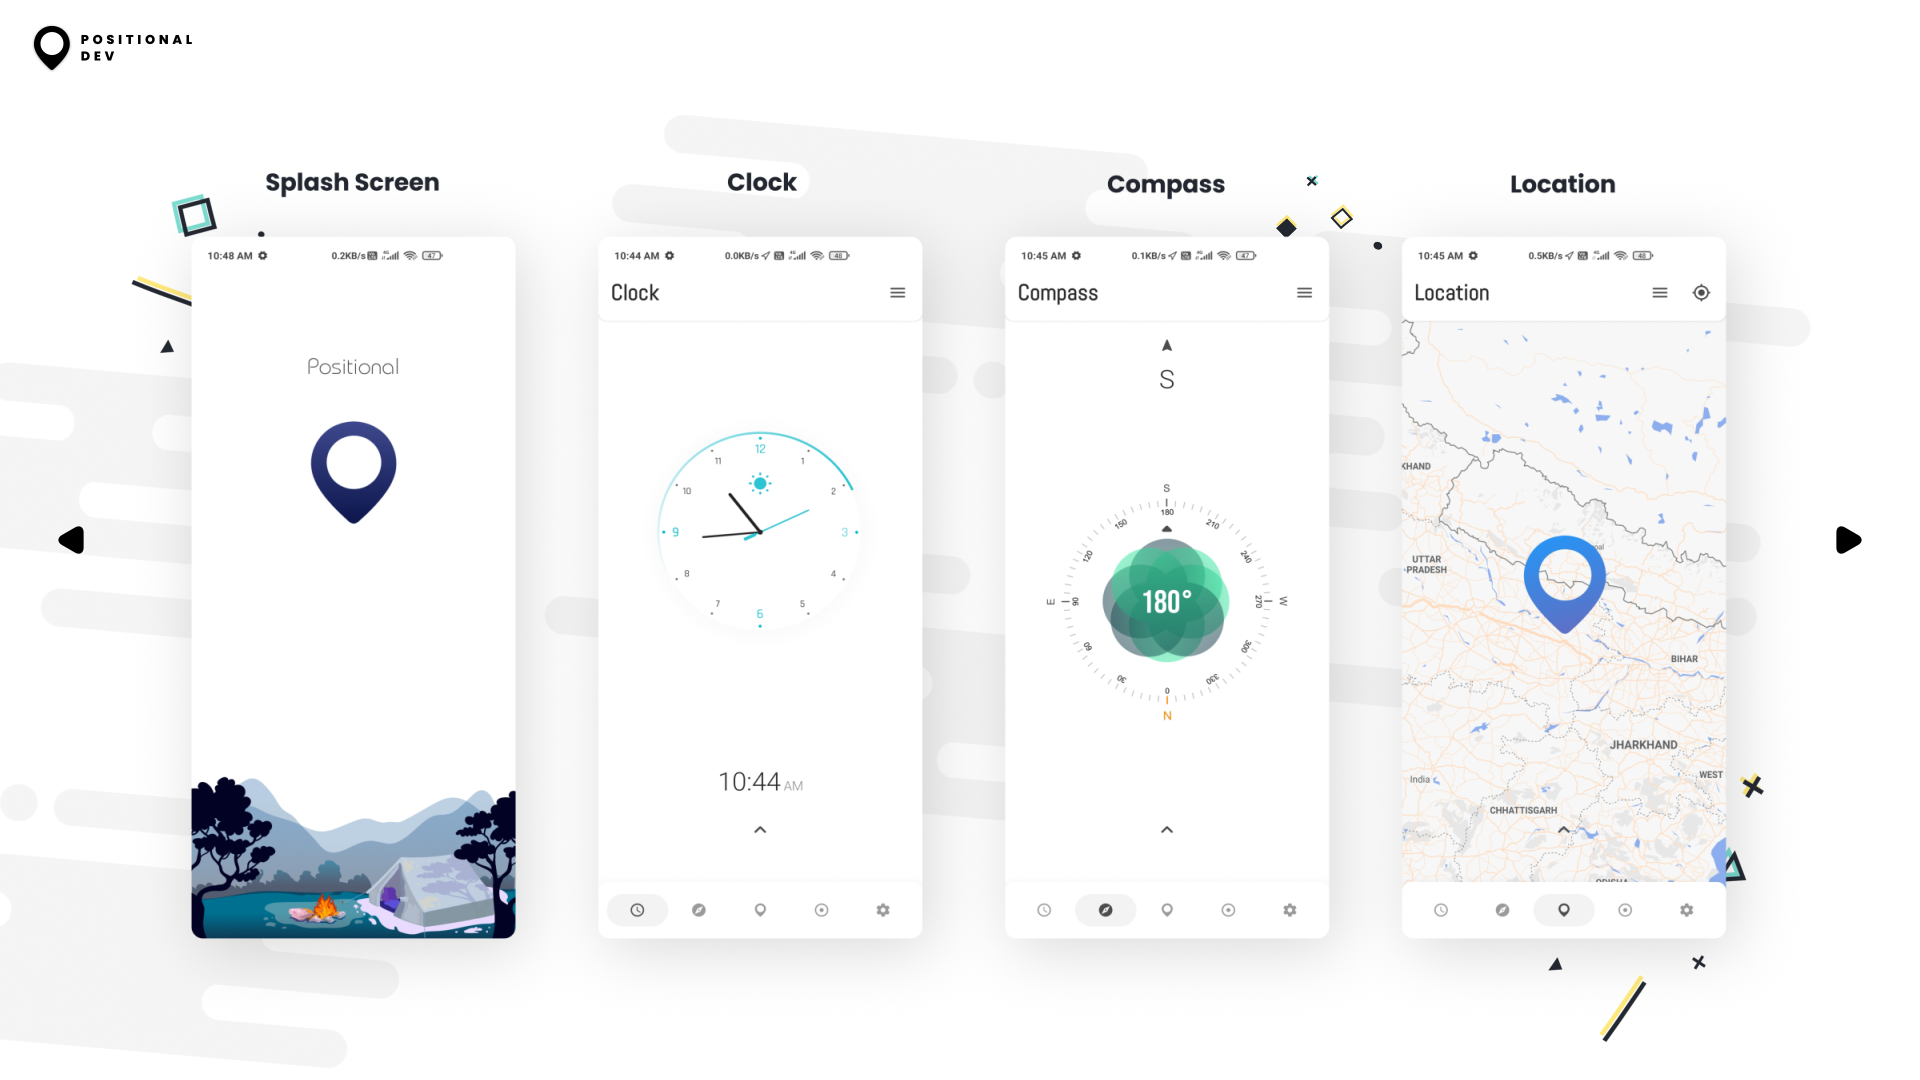
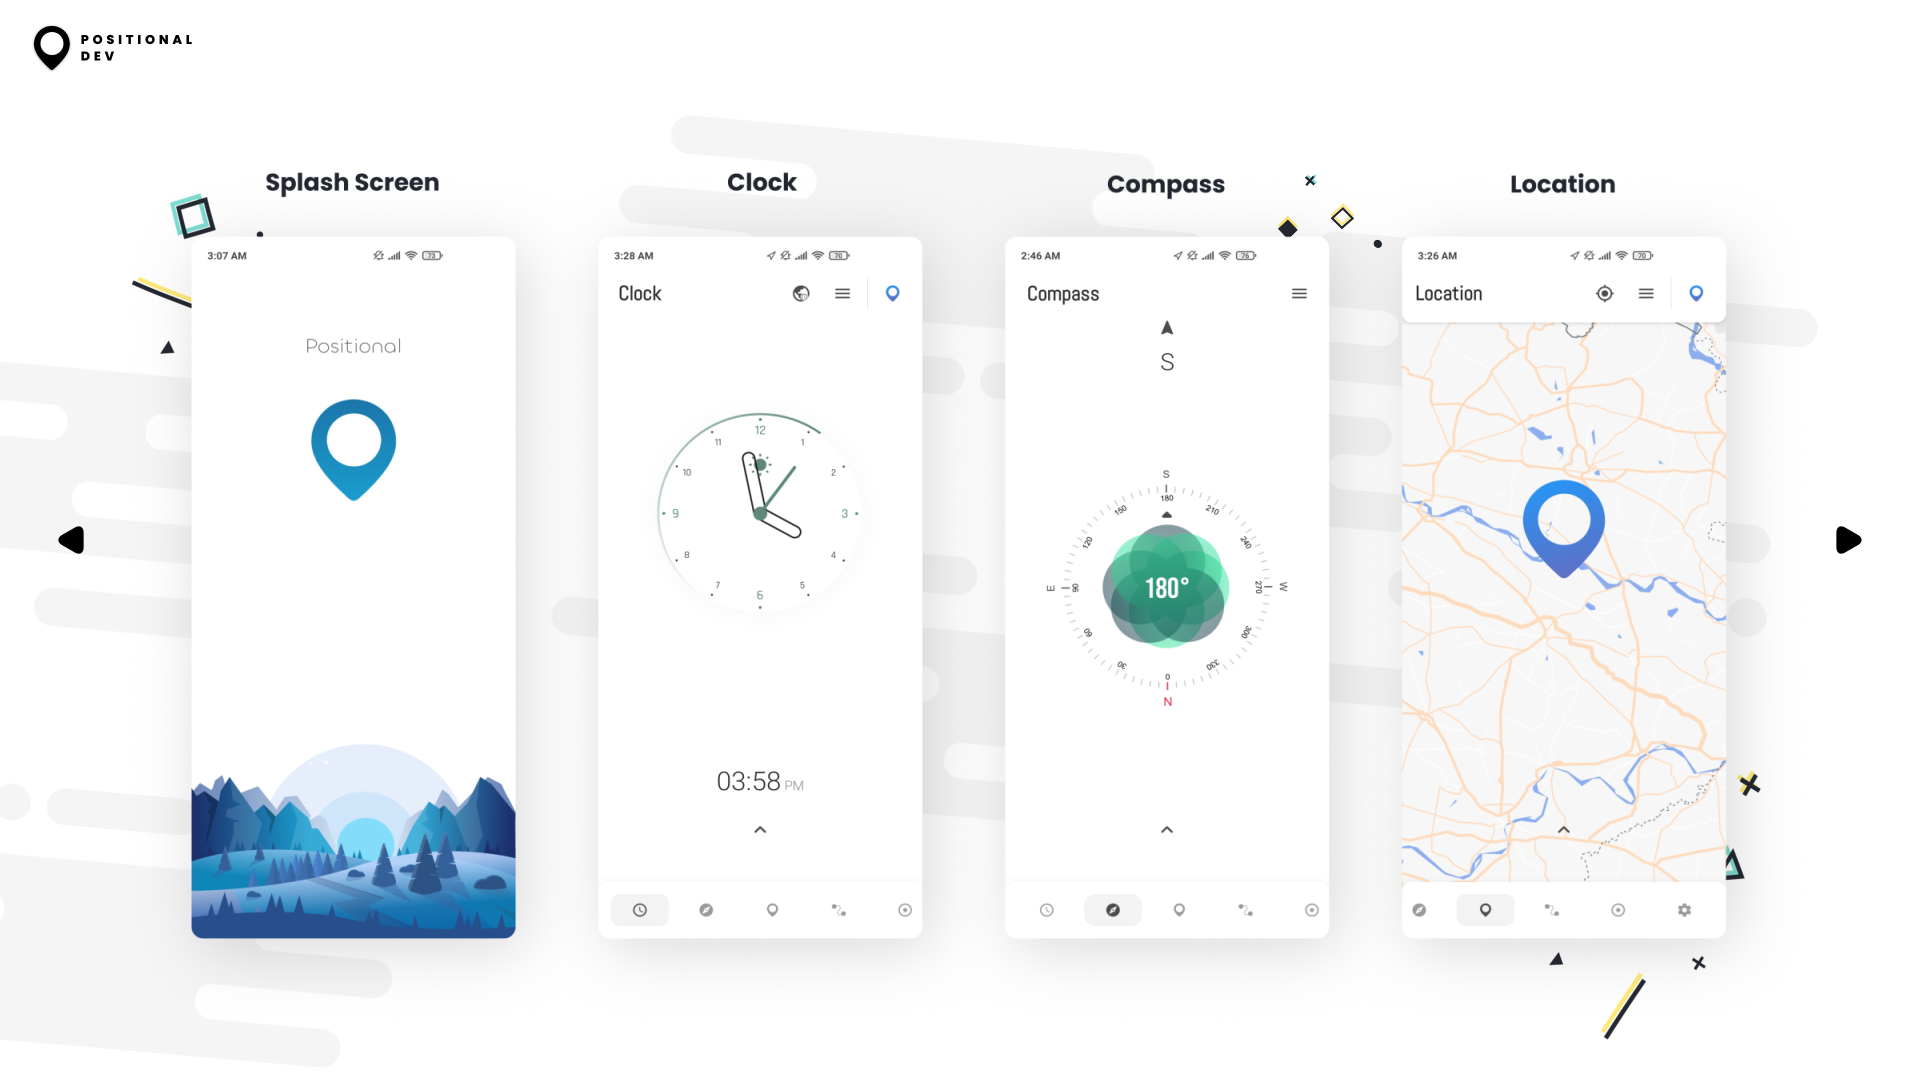
Build125
- Fixed a strange bug that caused crashes
  - Code cleanup

diff --git a/app/src/main/java/app/simple/positional/dialogs/trail/AddTrail.kt b/app/src/main/java/app/simple/positional/dialogs/trail/AddTrail.kt
@@ -50,16 +50,22 @@ class AddTrail : CustomDialogFragment() {
             list.addAll(it)
         })
 
-        nameInputEditText.doOnTextChanged { text, _, _, count ->
+        nameInputEditText.doOnTextChanged { text, _, _, _ ->
             kotlin.runCatching {
-                for (i in list) {
-                    if (i.trailName.lowercase() == text.toString().lowercase() || text.toString().lowercase() == "%%_trails" || count.isZero()) {
-                        println("Called")
+                if (list.isEmpty()) {
+                    if (text.toString().lowercase() == "%%_trails" || text?.length!!.isZero()) {
                         save.gone()
-                        break
                     } else {
-
                         save.visible(true)
+                    }
+                } else {
+                    for (i in list) {
+                        if (i.trailName.lowercase() == text.toString().lowercase() || text.toString().lowercase() == "%%_trails" || text?.length!!.isZero()) {
+                            save.gone()
+                            break
+                        } else {
+                            save.visible(true)
+                        }
                     }
                 }
             }

diff --git a/app/src/main/java/app/simple/positional/dialogs/gps/PinCustomization.kt b/app/src/main/java/app/simple/positional/dialogs/gps/PinCustomization.kt
@@ -13,7 +13,6 @@ import app.simple.positional.adapters.maps.PinSkinAdapter
 import app.simple.positional.decorations.ripple.DynamicRippleImageButton
 import app.simple.positional.decorations.views.CustomBottomSheetDialogFragment
 import app.simple.positional.preferences.GPSPreferences
-import app.simple.positional.preferences.MainPreferences
 
 class PinCustomization : CustomBottomSheetDialogFragment() {
 
@@ -129,13 +128,8 @@ class PinCustomization : CustomBottomSheetDialogFragment() {
         opacity.clearAnimation()
         size.clearAnimation()
         if (!requireActivity().isDestroyed) {
-            if (MainPreferences.getMapPanelType()) {
-                OSMMenu.newInstance()
-                        .show(parentFragmentManager, "gps_menu")
-            } else {
-                GPSMenu.newInstance()
-                        .show(parentFragmentManager, "gps_menu")
-            }
+            GPSMenu.newInstance()
+                .show(parentFragmentManager, "gps_menu")
         }
     }
 

diff --git a/app/src/main/java/app/simple/positional/viewmodels/viewmodel/BottomBarViewModel.kt b/app/src/main/java/app/simple/positional/viewmodels/viewmodel/BottomBarViewModel.kt
@@ -27,7 +27,7 @@ class BottomBarViewModel(application: Application) : AndroidViewModel(applicatio
                     BottomBarModel(R.drawable.ic_clock, "clock", context.getString(R.string.clock)),
                     BottomBarModel(R.drawable.ic_compass, "compass", context.getString(R.string.compass)),
                     BottomBarModel(locationsPins[getPinSkin()], "location", context.getString(R.string.gps_location)),
-                    BottomBarModel(R.drawable.ic_trail, "trail", context.getString(R.string.trail)),
+                    BottomBarModel(R.drawable.ic_trail_line, "trail", context.getString(R.string.trail)),
                     BottomBarModel(R.drawable.ic_level, "level", context.getString(R.string.level)),
                     // BottomBarModel(R.drawable.ic_settings, "settings", context.getString(R.string.settings))
             )

diff --git a/app/src/main/java/app/simple/positional/preferences/TrailPreferences.kt b/app/src/main/java/app/simple/positional/preferences/TrailPreferences.kt
@@ -110,7 +110,7 @@ object TrailPreferences {
     }
 
     fun arePolylinesWrapped(): Boolean {
-        return getSharedPreferences().getBoolean(wrapped, true)
+        return getSharedPreferences().getBoolean(wrapped, false)
     }
 
     //--------------------------------------------------------------------------------------------------//
@@ -140,7 +140,7 @@ object TrailPreferences {
     }
 
     fun getMapAutoCenter(): Boolean {
-        return getSharedPreferences().getBoolean(mapAutoCenter, true)
+        return getSharedPreferences().getBoolean(mapAutoCenter, false)
     }
 
     //--------------------------------------------------------------------------------------------------//

diff --git a/app/src/main/java/app/simple/positional/ui/panels/Trail.kt b/app/src/main/java/app/simple/positional/ui/panels/Trail.kt
@@ -330,7 +330,7 @@ class Trail : ScopedFragment() {
             }
         })
 
-        dim.setOnTouchListener { v, event ->
+        dim.setOnTouchListener { _, event ->
             when (event!!.action) {
                 MotionEvent.ACTION_DOWN -> {
                     x = event.x

diff --git a/app/src/main/java/app/simple/positional/adapters/bottombar/BottomBarItems.java b/app/src/main/java/app/simple/positional/adapters/bottombar/BottomBarItems.java
@@ -6,38 +6,21 @@ import java.util.ArrayList;
 
 import app.simple.positional.R;
 import app.simple.positional.constants.LocationPins;
-import app.simple.positional.preferences.BottomBarPreferences;
 import app.simple.positional.preferences.GPSPreferences;
 
 public class BottomBarItems {
     public static ArrayList<BottomBarModel> getBottomBarItems(Context context) {
         ArrayList<BottomBarModel> list = new ArrayList<>();
 
-        if (BottomBarPreferences.INSTANCE.getClockPanelVisibility()) {
-            list.add(new BottomBarModel(R.drawable.ic_clock, "clock", context.getString(R.string.clock)));
-        }
+        list.add(new BottomBarModel(R.drawable.ic_clock, "clock", context.getString(R.string.clock)));
+        list.add(new BottomBarModel(R.drawable.ic_compass, "compass", context.getString(R.string.compass)));
+        list.add(new BottomBarModel(LocationPins.INSTANCE.getLocationsPins()[GPSPreferences.INSTANCE.getPinSkin()],
+                "location",
+                context.getString(R.string.gps_location)));
 
-        if (BottomBarPreferences.INSTANCE.getCompassPanelVisibility()) {
-            list.add(new BottomBarModel(R.drawable.ic_compass, "compass", context.getString(R.string.compass)));
-        }
-
-        if (BottomBarPreferences.INSTANCE.getGpsPanelVisibility()) {
-            list.add(new BottomBarModel(LocationPins.INSTANCE.getLocationsPins()[GPSPreferences.INSTANCE.getPinSkin()],
-                    "location",
-                    context.getString(R.string.gps_location)));
-        }
-
-        if (BottomBarPreferences.INSTANCE.getTrailPanelVisibility()) {
-            list.add(new BottomBarModel(R.drawable.ic_trail, "trail", context.getString(R.string.trail)));
-        }
-
-        if (BottomBarPreferences.INSTANCE.getLevelPanelVisibility()) {
-            list.add(new BottomBarModel(R.drawable.ic_level, "level", context.getString(R.string.level)));
-        }
-
-        if (BottomBarPreferences.INSTANCE.getSettingsPanelVisibility()) {
-            list.add(new BottomBarModel(R.drawable.ic_settings, "settings", context.getString(R.string.settings)));
-        }
+        list.add(new BottomBarModel(R.drawable.ic_trail_line, "trail", context.getString(R.string.trail)));
+        list.add(new BottomBarModel(R.drawable.ic_level, "level", context.getString(R.string.level)));
+        list.add(new BottomBarModel(R.drawable.ic_settings, "settings", context.getString(R.string.settings)));
 
         return list;
     }

diff --git a/app/src/main/java/app/simple/positional/decorations/fastscroll/PopupStyles.java b/app/src/main/java/app/simple/positional/decorations/fastscroll/PopupStyles.java
@@ -10,6 +10,7 @@ import android.widget.TextView;
 
 import androidx.core.content.res.ResourcesCompat;
 import androidx.core.util.Consumer;
+
 import app.simple.positional.R;
 import app.simple.positional.util.ViewUtils;
 
@@ -17,8 +18,8 @@ public class PopupStyles {
     
     private PopupStyles() {
     }
-    
-    public static Consumer <TextView> MD2 = popupView -> {
+
+    public static final Consumer<TextView> MD2 = popupView -> {
         Resources resources = popupView.getResources();
         popupView.setMinimumWidth(resources.getDimensionPixelSize(R.dimen.fs_md2_popup_min_width));
         popupView.setMinimumHeight(resources.getDimensionPixelSize(R.dimen.fs_md2_popup_min_height));

diff --git a/app/src/main/java/app/simple/positional/decorations/scrollers/BaseSmoothScroller.java b/app/src/main/java/app/simple/positional/decorations/scrollers/BaseSmoothScroller.java
@@ -71,7 +71,7 @@ public abstract class BaseSmoothScroller extends RecyclerView.SmoothScroller {
      * {@link DisplayMetrics#DENSITY_LOW}, {@link DisplayMetrics#DENSITY_MEDIUM},
      * or {@link DisplayMetrics#DENSITY_HIGH}.
      */
-    protected int mDensityDpi;
+    protected final int mDensityDpi;
 
     protected Interpolator mSearchingTargetInterpolator;
 

diff --git a/README.md b/README.md
@@ -19,7 +19,7 @@ On top of all the core functionality Positional is a highly polished app and pro
 [![Free](https://img.shields.io/badge/Free%20Version-Play%20Store-839192?style=flat&logo=google%20play)](https://play.google.com/store/apps/details?id=app.simple.positional.lite)
 [![Full](https://img.shields.io/badge/Full%20Version-Play%20Store-2E86C1?style=flat&logo=google%20play)](https://play.google.com/store/apps/details?id=app.simple.positional)
 
-[![From Github](https://img.shields.io/github/downloads/Hamza417/Positional/total?color=white&label=Free%20Version%20%28GitHub%29&logo=github)](https://github.com/Hamza417/Positional/releases/download/Build120/app-lite-release.apk)
+[![From Github](https://img.shields.io/github/downloads/Hamza417/Positional/total?color=white&label=Free%20Version%20%28GitHub%29&logo=github)](https://github.com/Hamza417/Positional/releases/download/Build125/app-lite-release.apk)
 
 [![Intro](https://img.shields.io/youtube/views/H9UT8gCuvgk?label=Watch%20App%20Intro&logo=Youtube&logoColor=red&style=social)](https://youtu.be/H9UT8gCuvgk)
 
@@ -40,6 +40,7 @@ On top of all the core functionality Positional is a highly polished app and pro
 <img src="https://github.com/Hamza417/Positional/blob/master/screenshots/02.png" width="100%">
 <img src="https://github.com/Hamza417/Positional/blob/master/screenshots/03.png" width="100%">
 <img src="https://github.com/Hamza417/Positional/blob/master/screenshots/06.png" width="100%">
+<img src="https://github.com/Hamza417/Positional/blob/master/screenshots/08.png" width="100%">
 <img src="https://github.com/Hamza417/Positional/blob/master/screenshots/05.png" width="100%">
 <img src="https://github.com/Hamza417/Positional/blob/master/screenshots/04.png" width="100%">
 
